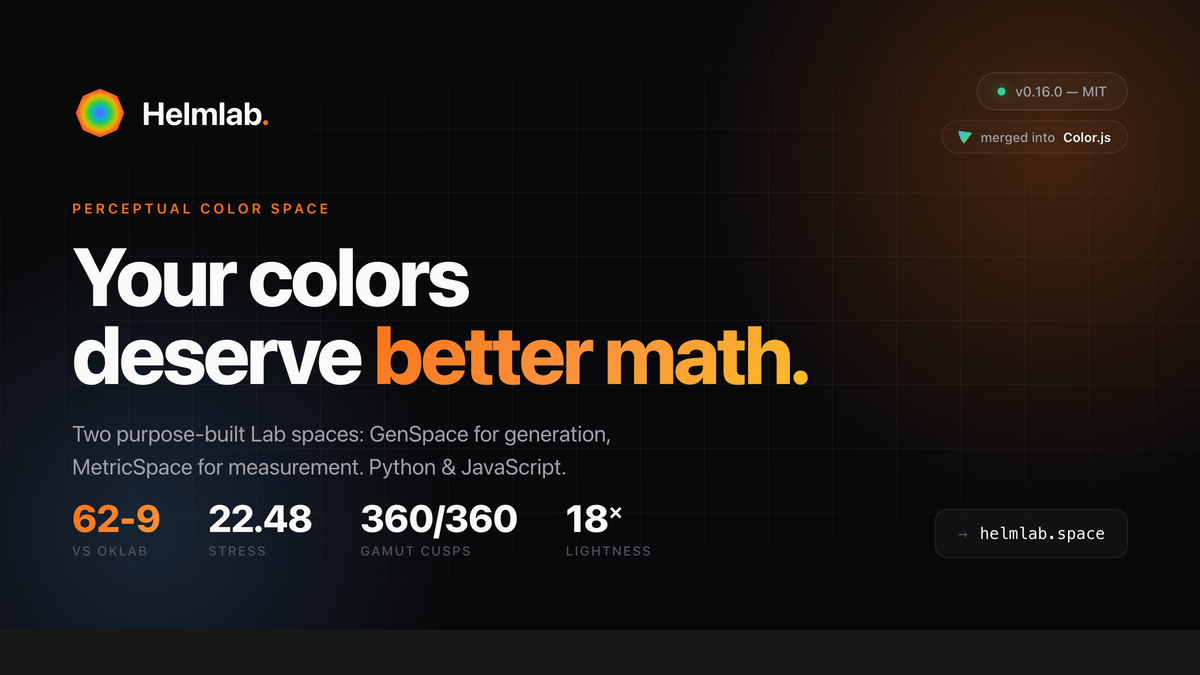
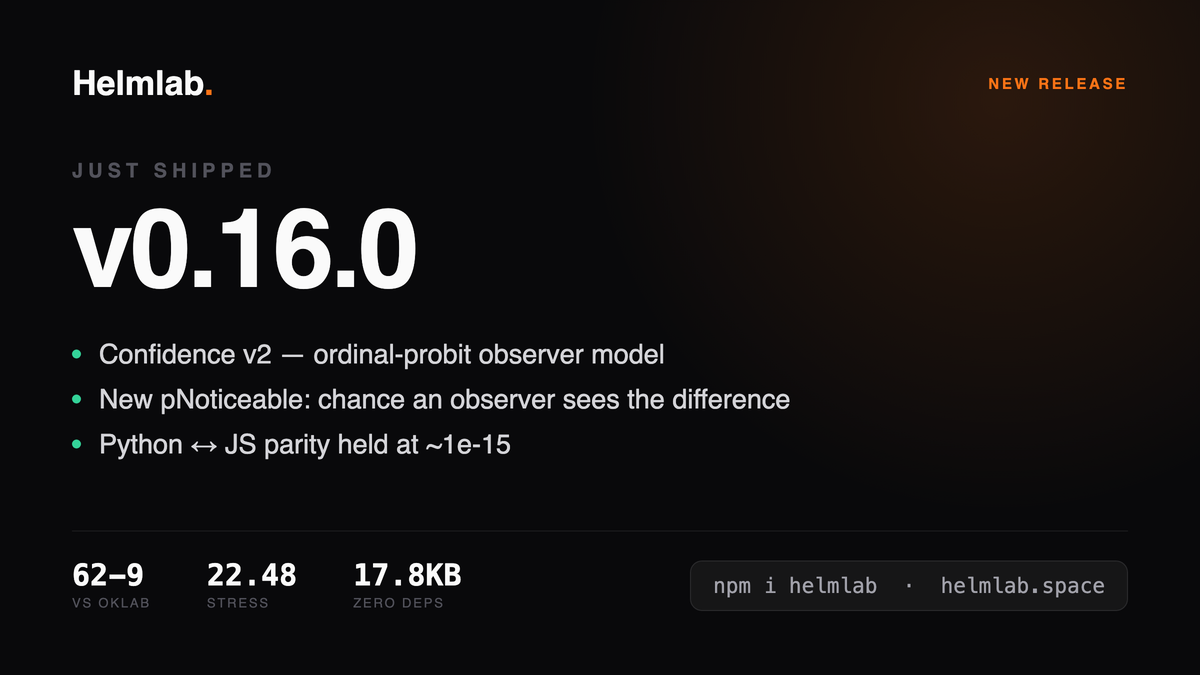
Dedicated release card for the per-version Twitter visual
The twitter-card was a resize of the same /og-card page. It now renders a
release-specific /release-card page: big version number, per-release
highlights from src/data/release-notes.ts (falls back to evergreen stats),
claims-driven stat strip. generate-og.mjs screenshots both pages.

diff --git a/landing/landing-new/src/data/release-notes.ts b/landing/landing-new/src/data/release-notes.ts
@@ -1,0 +1,24 @@
+import { VERSION } from './version';
+
+/** One-line highlights per release — feeds the auto-generated Twitter card.
+ *  Add an entry when bumping the version; unknown versions fall back to
+ *  evergreen stats so the card never ships empty. */
+export const releaseHighlights: Record<string, string[]> = {
+  '0.16.0': [
+    'Confidence v2 — ordinal-probit observer model',
+    'New pNoticeable: chance an observer sees the difference',
+    'Python ↔ JS parity held at ~1e-15',
+  ],
+  '0.15.0': [
+    'The parity release: full API, zero diffs at 1e-12',
+    'genToLch / genFromLch for hue rotations & harmonies',
+    'PCHIP neutral correction + trusted publishing',
+  ],
+};
+
+export const currentHighlights: string[] =
+  releaseHighlights[VERSION] ?? [
+    'Two purpose-built Lab spaces: GenSpace + MetricSpace',
+    'STRESS 22.48 on COMBVD — 23% better than CIEDE2000',
+    'Python & JavaScript, identical output',
+  ];
